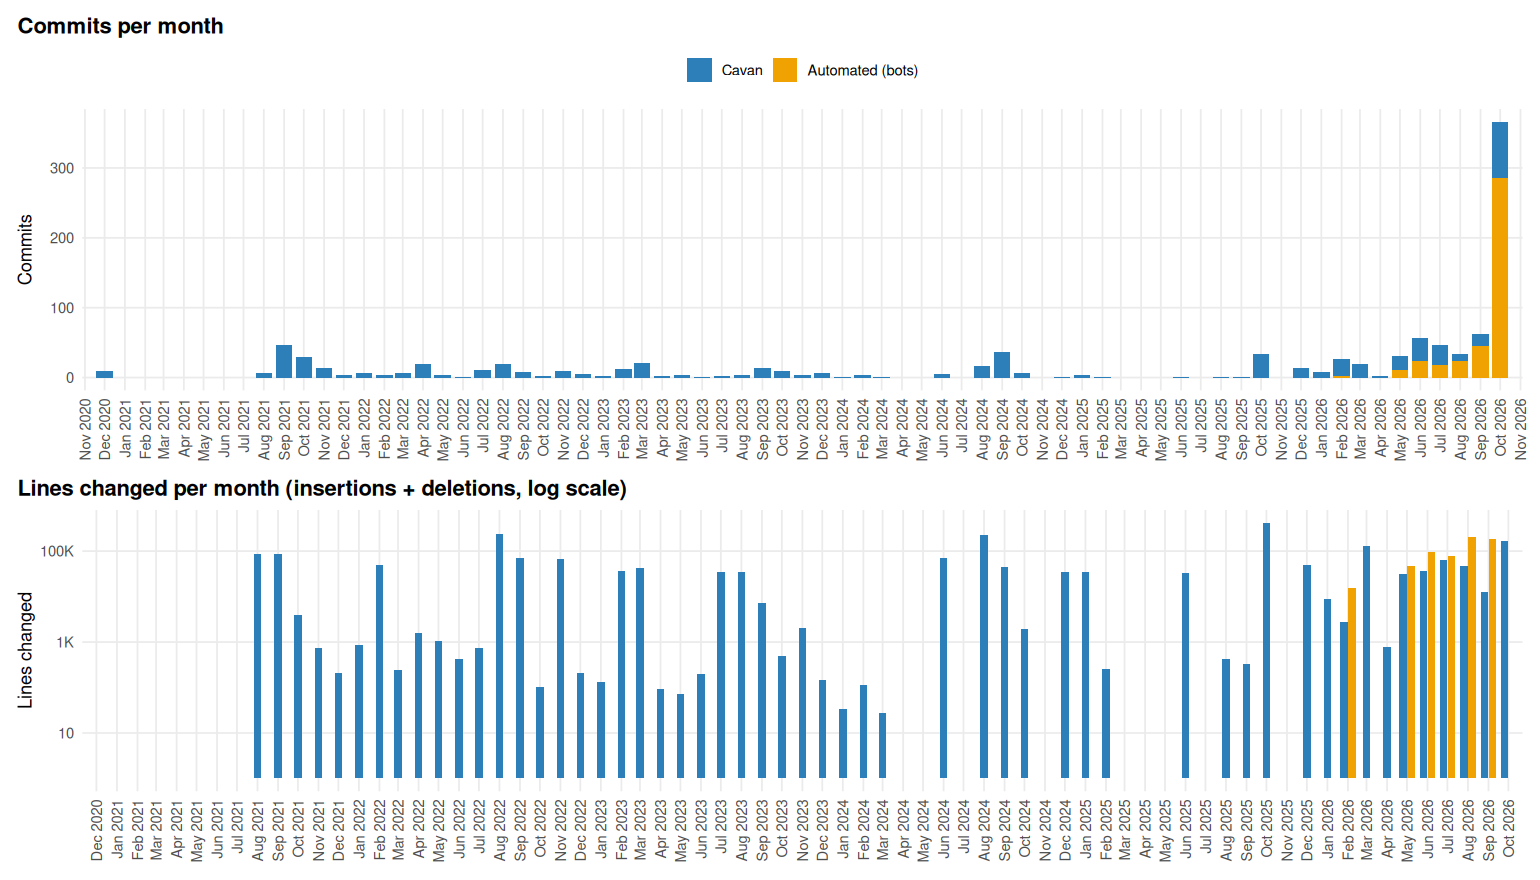
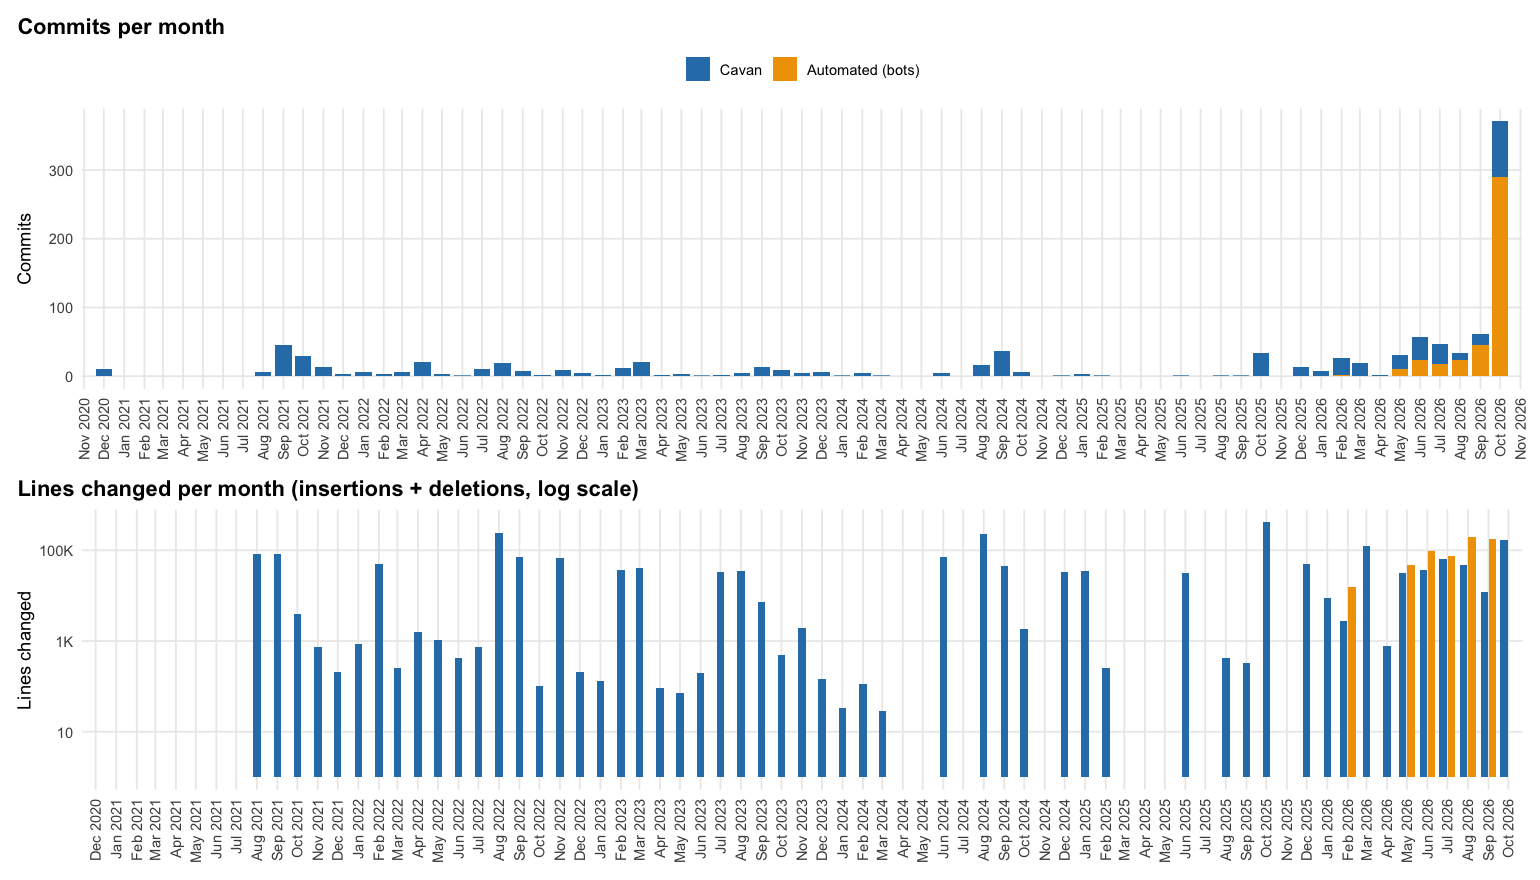
Add Teams of AI Agents project page

diff --git a/README.md b/README.md
@@ -91,6 +91,8 @@ Check out my website at <https://cavandonohoe.github.io>
 ### Data Science & Clinical
 
 - [SDTM with R](https://cavandonohoe.github.io/sdtm_with_r.html)
+- [Teams of AI Agents: Cracking Ciphers and Backtesting
+  Rentals](https://cavandonohoe.github.io/agent_experiments.html)
 
 ### Learn R
 
@@ -236,8 +238,8 @@ above. Regenerated each time `README.Rmd` is knit.
 
 <img src="images/readme/commit-activity-cumulative-1.png" alt="Two cumulative line charts showing total commits and total lines changed (insertions + deletions) over time, split by Cavan's own commits vs. scheduled-bot commits."  />
 
-*1,060 commits from Dec 2020 to Oct 2026 (652 by me, 408 by scheduled
-bots), touching 3,111,123 lines in total.*
+*1,065 commits from Dec 2020 to Oct 2026 (652 by me, 413 by scheduled
+bots), touching 3,111,176 lines in total.*
 
 ## Setup and Local Development
 
